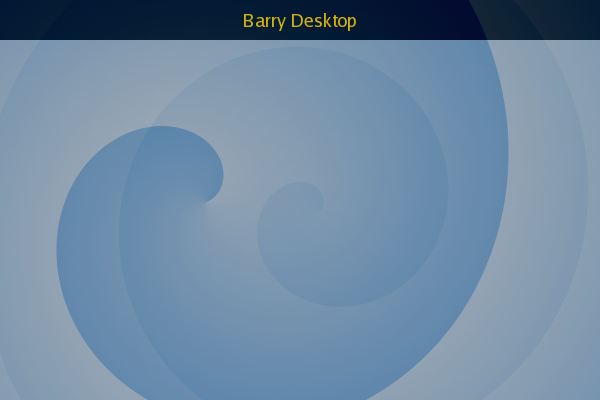
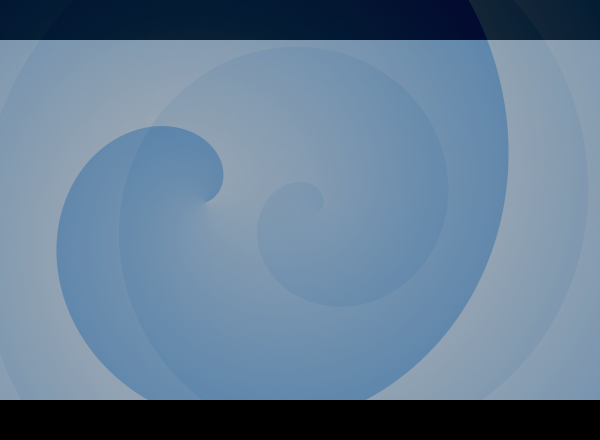
desktop: added footer, and change header text to print from application
Changed the text in the header so that it is painted via code, instead
of embedded in the background image.  This allows for future sub-
screens with their own title.

diff --git a/desktop/src/barrydesktop.cc b/desktop/src/barrydesktop.cc
@@ -134,6 +134,7 @@ private:
 private:
 	std::auto_ptr<wxBitmap> m_background, m_button;
 	std::auto_ptr<BaseButtons> m_basebuttons;
+	int m_width, m_height;
 
 public:
 	BaseFrame(const wxImage &background);
@@ -348,6 +349,8 @@ BaseFrame::BaseFrame(const wxImage &background)
 		wxSize(background.GetWidth(), background.GetHeight()),
 		wxMINIMIZE_BOX | wxCAPTION | wxCLOSE_BOX | wxSYSTEM_MENU |
 		wxCLIP_CHILDREN)
+	, m_width(background.GetWidth())
+	, m_height(background.GetHeight())
 {
 	m_background.reset( new wxBitmap(background) );
 	m_basebuttons.reset( new BaseButtons(this) );
@@ -357,15 +360,35 @@ void BaseFrame::OnPaint(wxPaintEvent &event)
 {
 static bool init = false;
 
+	// paint the background image
 	wxPaintDC dc(this);
 	dc.DrawBitmap(*m_background, 0, 0);
+
+	// paint the header
+
+	// FIXME - add a logo here, as a small XPM file in the corner
+
+	// paint the header text
+	auto_ptr<wxFont> font( wxFont::New(14,
+		wxFONTFAMILY_SWISS, wxFONTFLAG_ANTIALIASED,
+		_T("Luxi Sans")) );
+	dc.SetFont( *font );
+	dc.SetTextForeground( wxColour(0xd2, 0xaf, 0x0b) );
+	dc.SetTextBackground( wxColour(0, 0, 0, wxALPHA_TRANSPARENT) );
+
+	long width, height, descent;
+	wxString header = _T("Barry Desktop");
+	dc.GetTextExtent(header, &width, &height, &descent);
+	int x = m_width / 2 - width / 2;
+	int y = MAIN_HEADER_OFFSET / 2 - height / 2;
+	dc.DrawText(header, x, y);
+
+	// paint the buttons
 	if( !init ) {
 		m_basebuttons->InitAll(dc);
 		init = true;
 	}
 	m_basebuttons->DrawAll(dc);
-
-	// FIXME - add a logo here, as a small XPM file in the corner
 }
 
 void BaseFrame::OnMouseMotion(wxMouseEvent &event)
